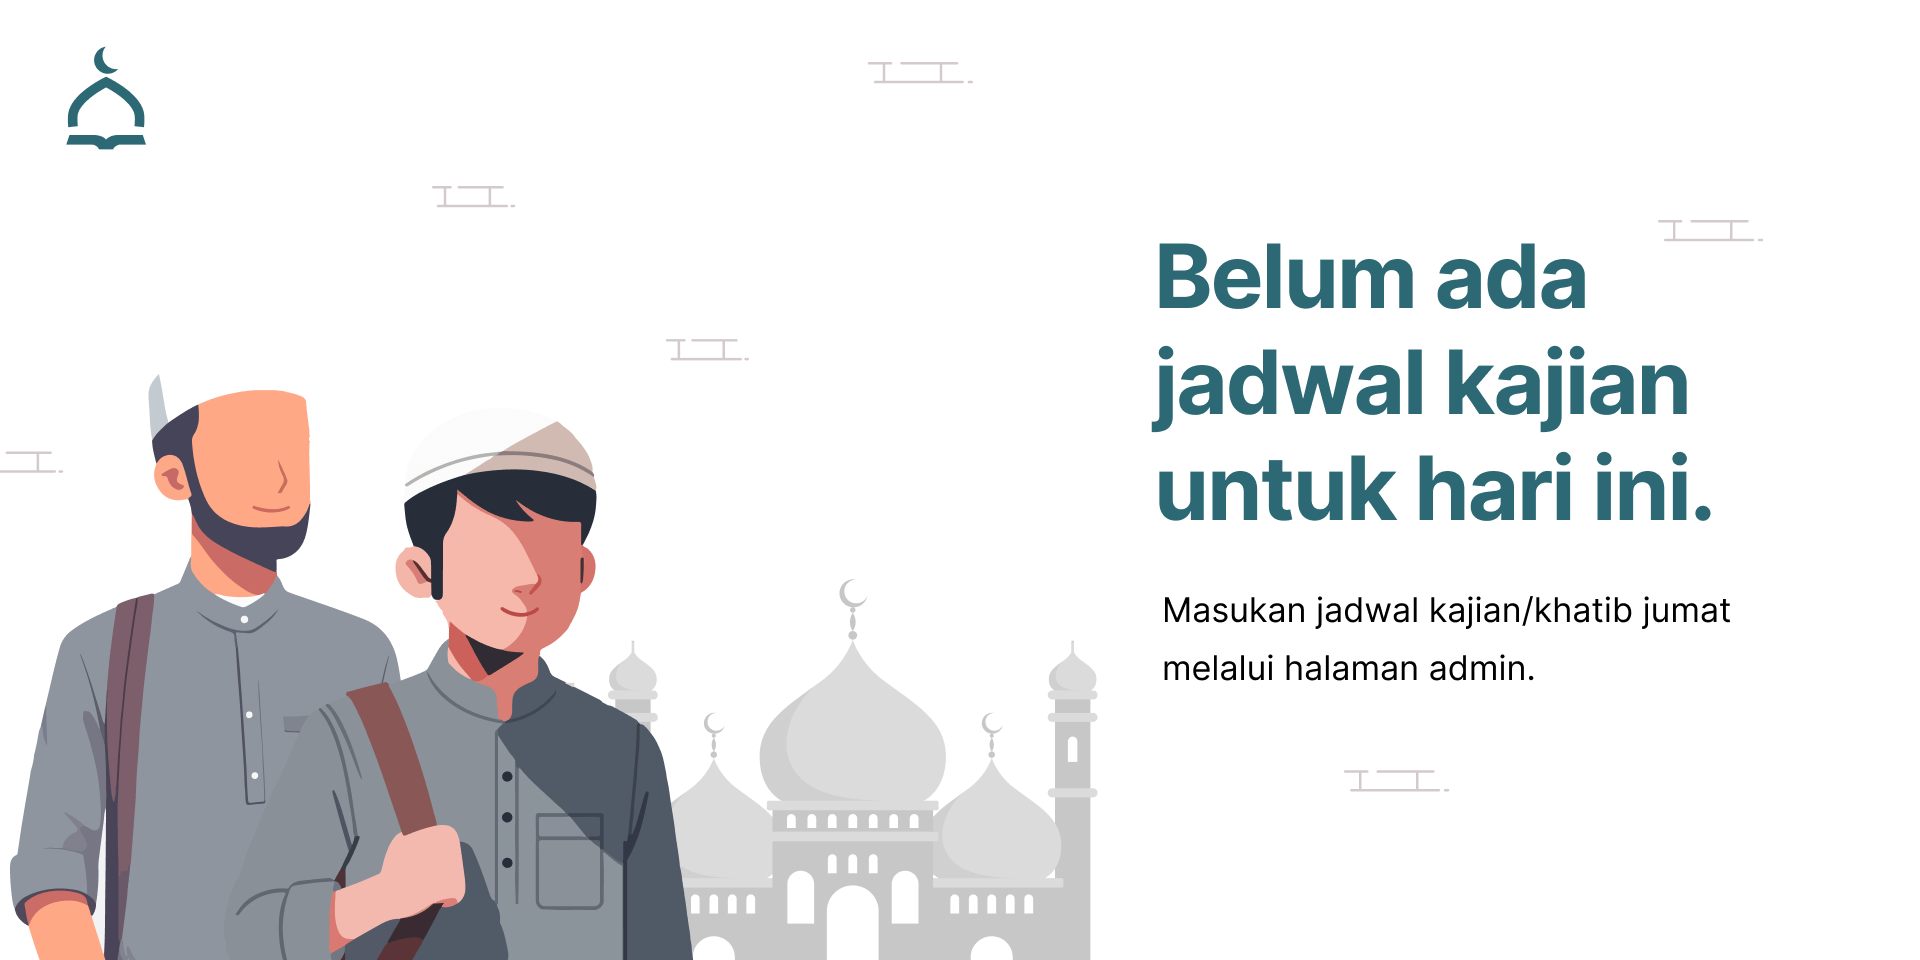
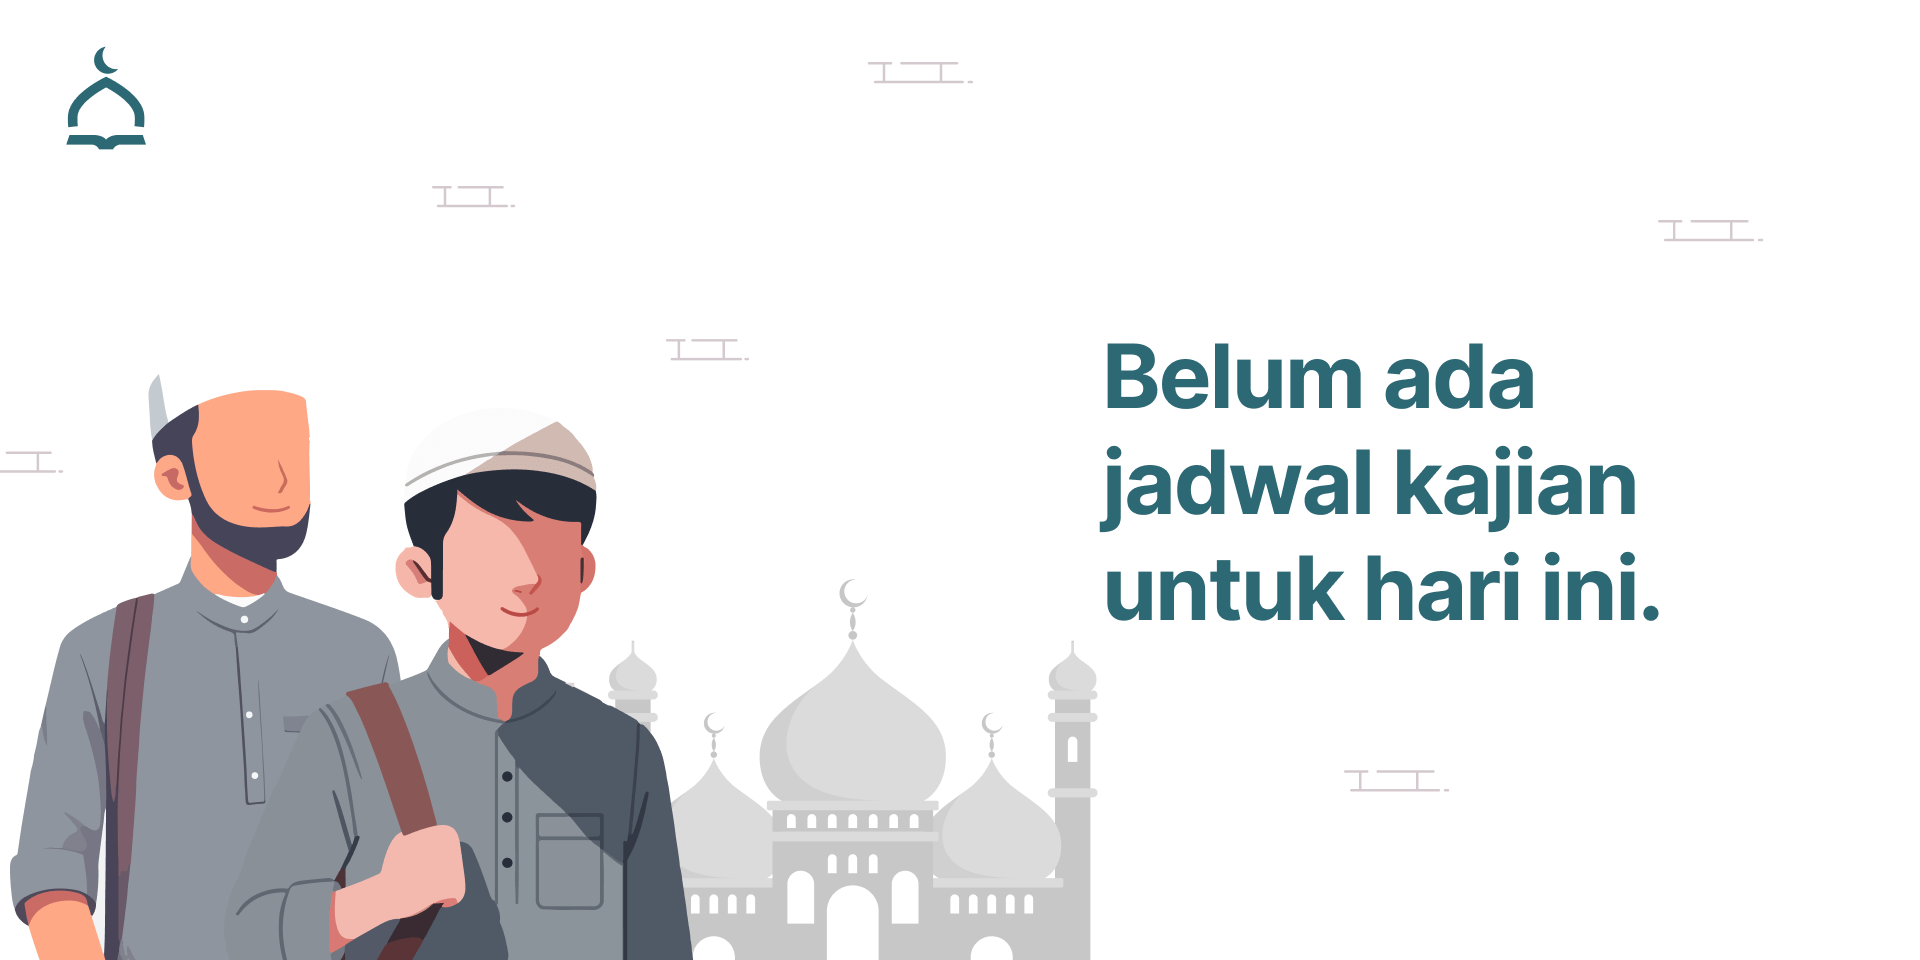
Update : default/empty program

Changed region(s): [[0.5625, 0.25, 0.9062, 0.6562], [0.5938, 0.6875, 0.8125, 0.7188]]

diff --git a/resources/views/livewire/public_home/book_cards.blade.php b/resources/views/livewire/public_home/book_cards.blade.php
@@ -3,30 +3,34 @@
         <div class="col"><span class="fs-2 fw-bold pe-2">{{ __('book.program') }}</span></div>
         <div class="col text-end mt-1"><a href="{{ route('public.donate') }}">{{ __('app.show') }} <i class="ti">&#xea61;</i></a></div>
     </div>
-    <div class="card">
-        <div id="carousel-indicators" class="carousel slide" data-bs-ride="carousel">
-            <div class="carousel-indicators">
-                @foreach ($publicBooks as $publicBook)
-                    <button type="button" 
-                            data-bs-target="#carousel-indicators" 
-                            data-bs-slide-to="{{ $loop->index }}"  {{-- Use $loop->index --}}
-                            @if ($loop->first) class="active" aria-current="true" @endif>
-                    </button>
-                @endforeach
-            </div>
-            <div class="carousel-inner">
-                @foreach ($publicBooks as $publicBook)
-                    <div class="carousel-item @if ($loop->first) active @endif">
-                        <a href="{{ route('public.books.show', $publicBook) }}">
-                            @if (Setting::for($publicBook)->get('poster_image_path'))
-                                <img src="{{ Storage::url(Setting::for($publicBook)->get('poster_image_path')) }}" class="w-100 h-100 object-cover" alt="{{ $publicBook->name }}" style="border-radius: 15px 15px;">
-                            @else
-                                <div class="p-3 fs-1 d-flex align-items-center justify-content-center" style="min-height: 13em">{{ $publicBook->name }}</div>
-                            @endif
-                        </a>
-                    </div>
-                @endforeach
+    @if ($publicBooks->isEmpty() == false)
+        <div class="card">
+            <div id="carousel-indicators" class="carousel slide" data-bs-ride="carousel">
+                <div class="carousel-indicators">
+                    @foreach ($publicBooks as $publicBook)
+                        <button type="button" 
+                                data-bs-target="#carousel-indicators" 
+                                data-bs-slide-to="{{ $loop->index }}"  {{-- Use $loop->index --}}
+                                @if ($loop->first) class="active" aria-current="true" @endif>
+                        </button>
+                    @endforeach
+                </div>
+                <div class="carousel-inner">
+                    @foreach ($publicBooks as $publicBook)
+                        <div class="carousel-item @if ($loop->first) active @endif">
+                            <a href="{{ route('public.books.show', $publicBook) }}">
+                                @if (Setting::for($publicBook)->get('poster_image_path'))
+                                    <img src="{{ Storage::url(Setting::for($publicBook)->get('poster_image_path')) }}" class="w-100 h-100 object-cover" alt="{{ $publicBook->name }}" style="border-radius: 15px 15px;">
+                                @else
+                                    <div class="p-3 fs-1 d-flex align-items-center justify-content-center" style="min-height: 13em">{{ $publicBook->name }}</div>
+                                @endif
+                            </a>
+                        </div>
+                    @endforeach
+                </div>
             </div>
         </div>
-    </div>
+    @else
+        <img src="{{ asset('images/default_program.png') }}" style="border-radius: 15px; border: 1px solid #eee; padding-left: 0px; padding-right: 0px">
+    @endif
 </div>

diff --git a/resources/views/guest/donate.blade.php b/resources/views/guest/donate.blade.php
@@ -72,7 +72,7 @@
         <div class="pt-3 mt-4 border-top">
             <h2 class="fw-bolder">{{ __('book.program') }}</h2>
         </div>
-        @if (isset($publicBooks))
+        @if ($publicBooks->isEmpty() == false)
             <div class="row row-cols-lg-3">
                 @foreach ($publicBooks as $publicBook)
                 <div class="col-md-6 mt-3">
